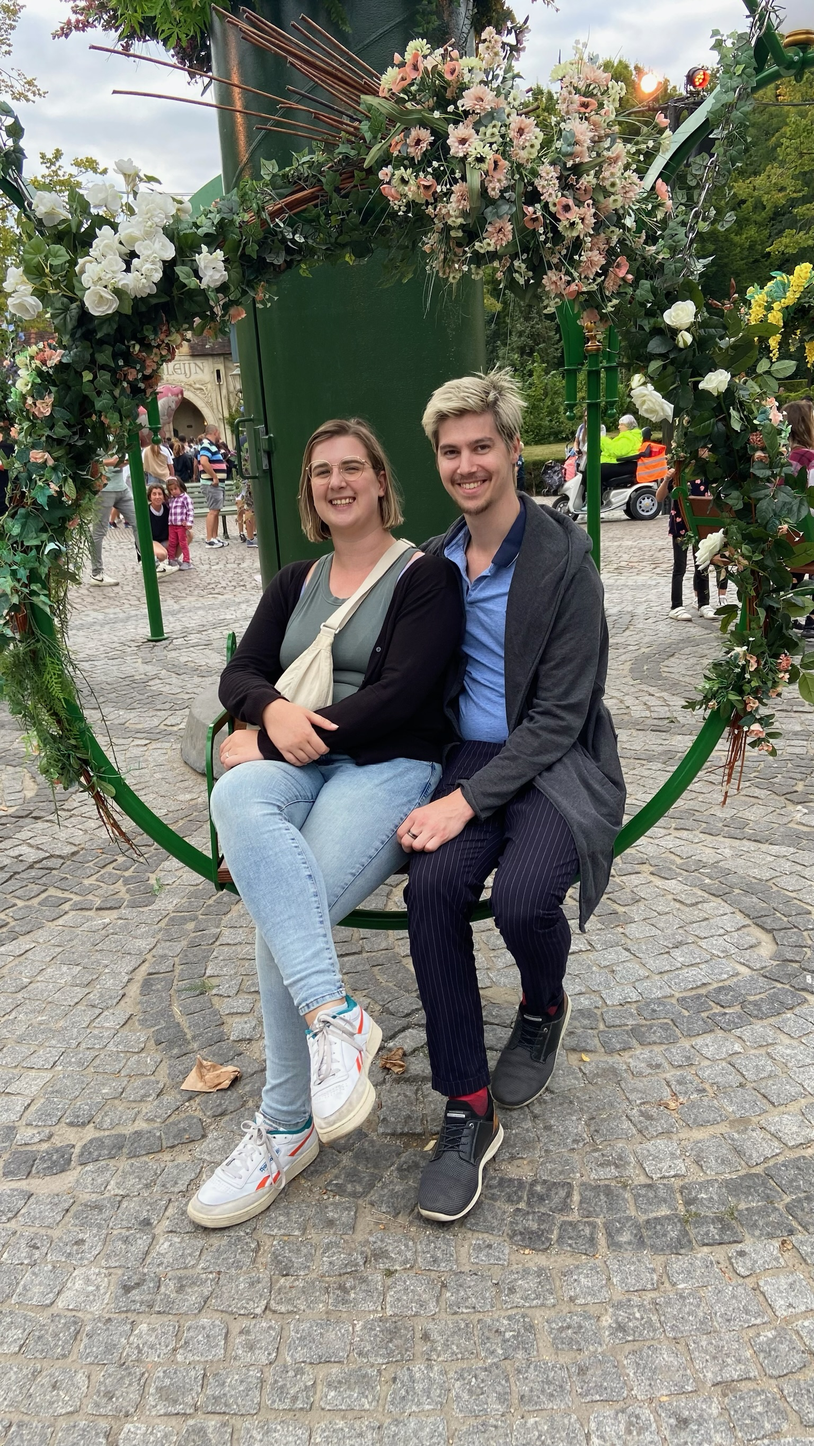
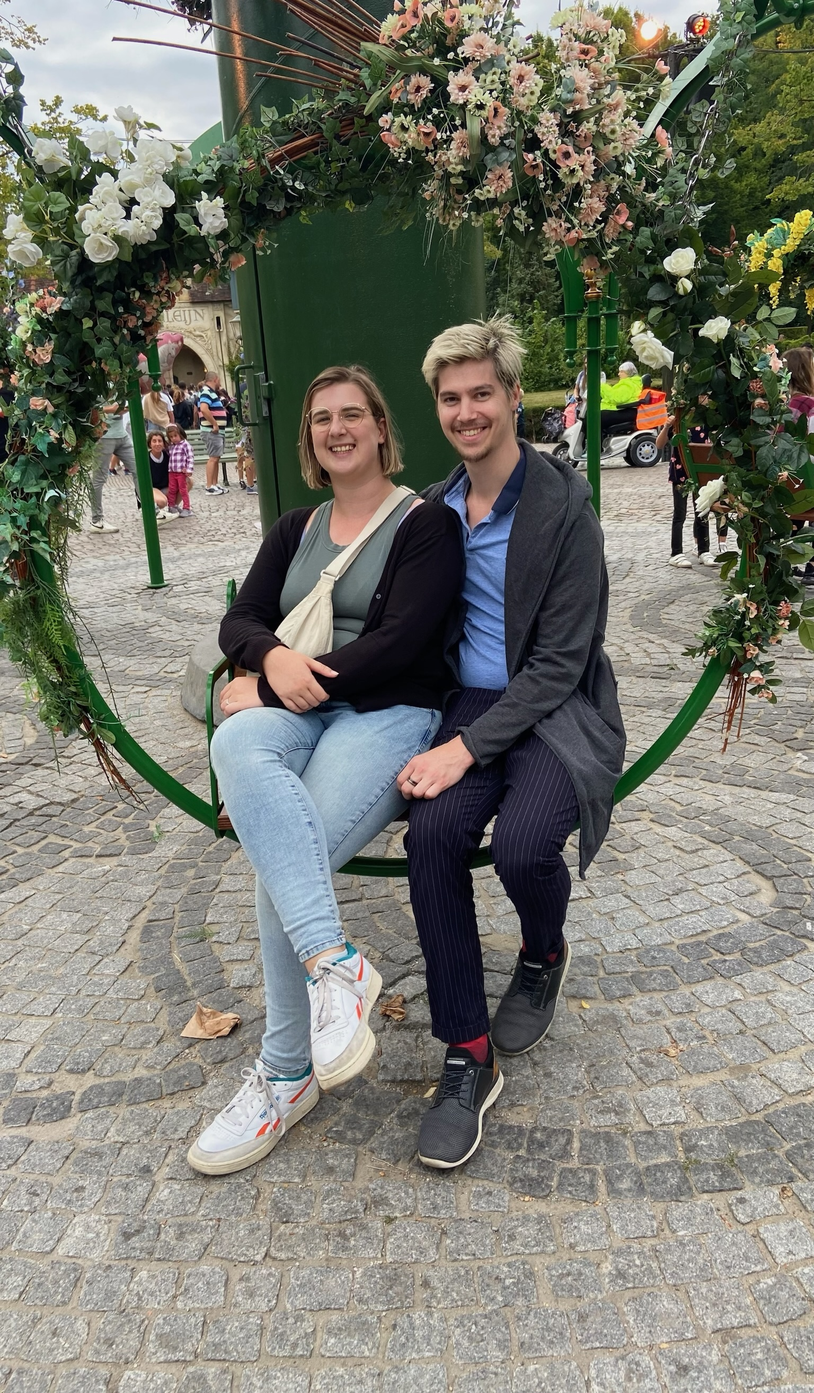
fix object position of image

diff --git a/src/routes/favorite-spots/+page.svelte b/src/routes/favorite-spots/+page.svelte
@@ -170,7 +170,7 @@
 				<enhanced:img
 					alt="Edfteling"
 					src="../../lib/images/efteling.jpg"
-					class="not-prose mb-8 aspect-square w-96 overflow-hidden rounded-xl object-cover transition ease-out sm:w-full lg:order-last"
+					class="not-prose mb-8 aspect-square w-96 overflow-hidden rounded-xl object-cover object-top transition ease-out sm:w-full lg:order-last"
 				/>
 			</Image>
 		</div>
